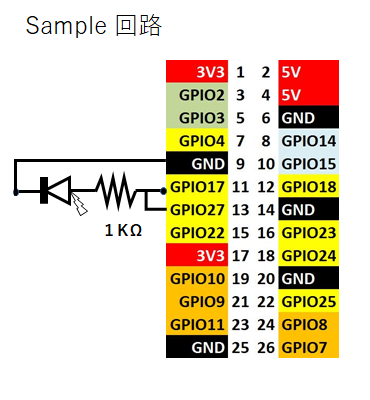
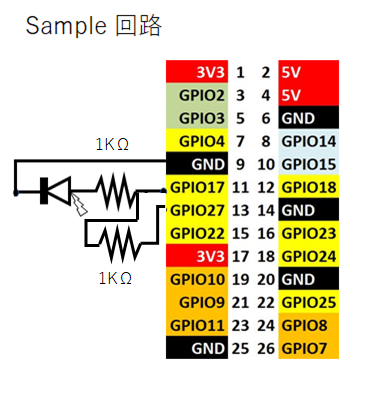
update Ver1.01

diff --git a/README.md b/README.md
@@ -3,4 +3,7 @@ Programed by M.kawase 組込AI研究所(Embed AI Labo.)<br />
 BAISC256用GPIO制御サブルーチン<br />
 GPIO入力はまだ未対応です。(Ver 0.5)<br />
 GPIO入力に対応（Ver 1.0）<br />
+GPIOテストプログラムの表示タイミングを変更<br />
+SampleCircuit.pngのGPIO17－27間ショートから抵抗を挟む (Ver 1.01)<br />
+
 
